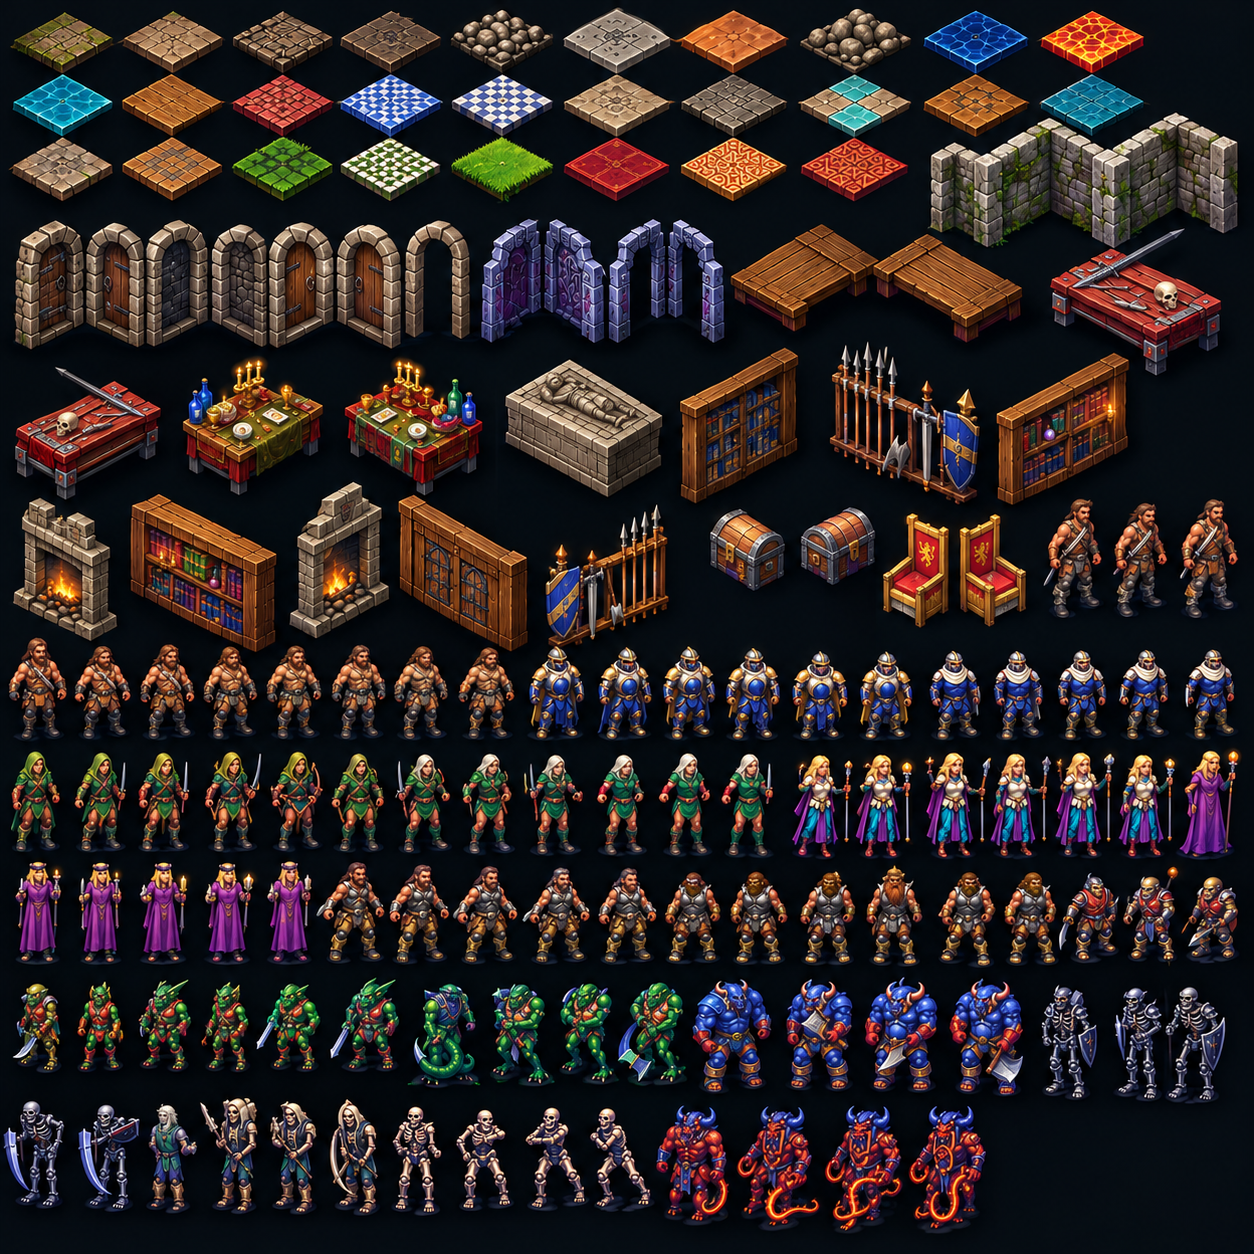
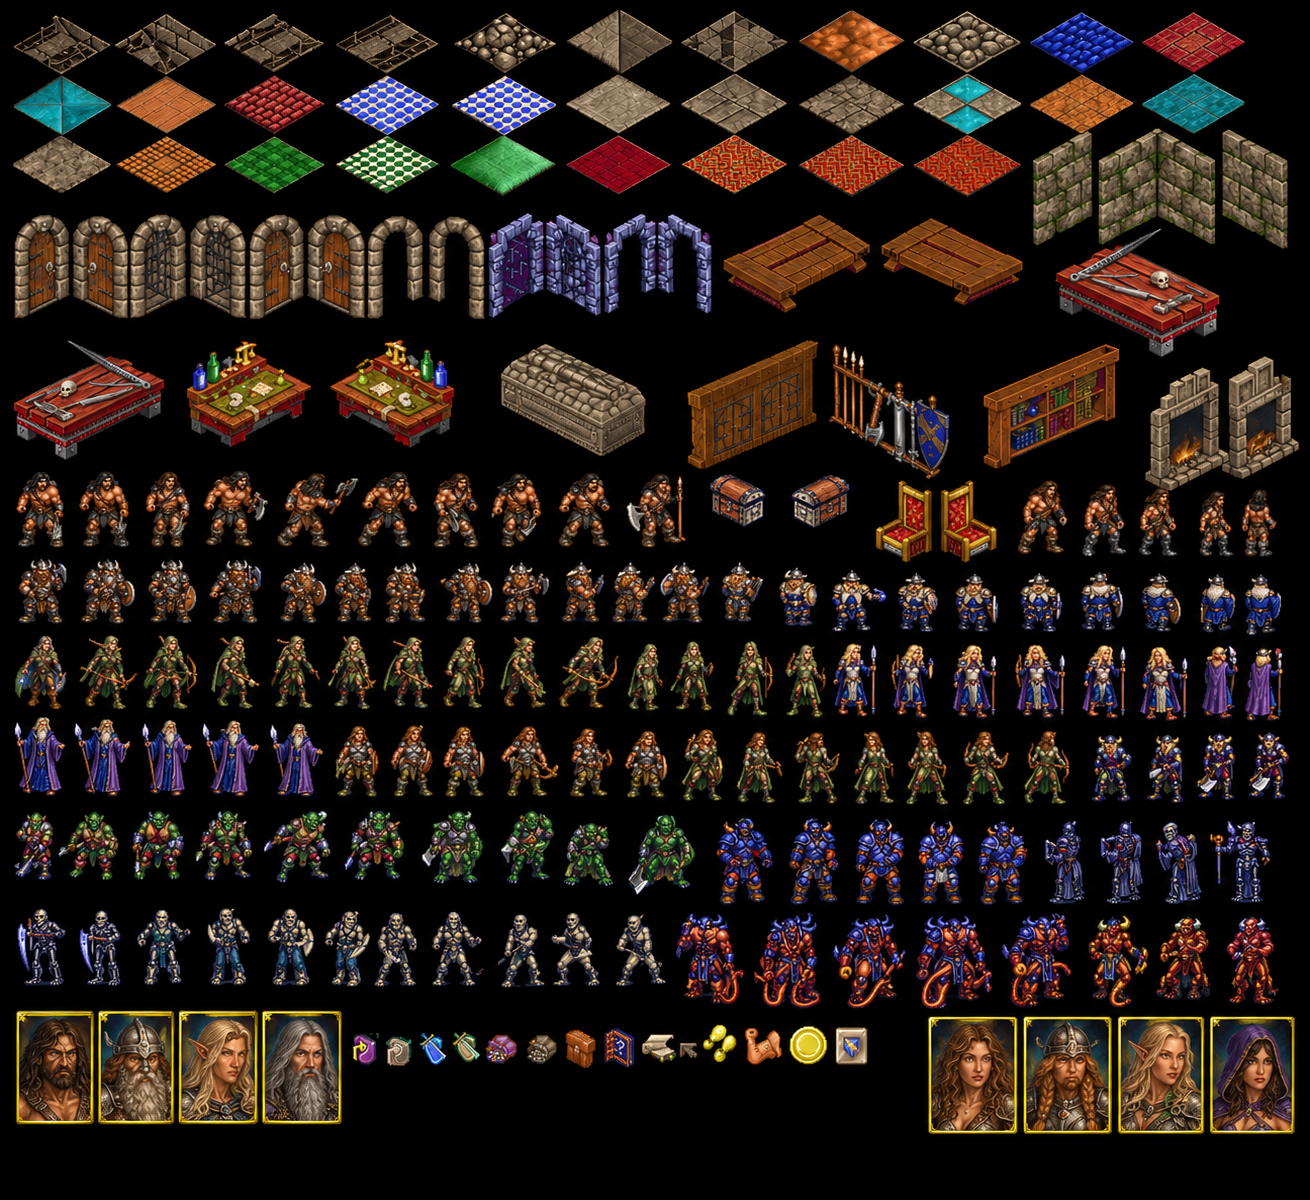
Refactor code structure for improved readability and maintainability

diff --git a/donjon-v2/public/assets/game/ModuleIso.js b/donjon-v2/public/assets/game/ModuleIso.js
@@ -85,7 +85,7 @@
 		Iso.Planche = new Image();
 		Iso.Planche.src = Chemin.replace('/images', '/iso/atlas.png');
 		Iso.Livre = new Image();
-		Iso.Livre.src = Chemin.replace('/images', '/iso/livre.png');
+		Iso.Livre.src = Chemin.replace('/images', '/iso/livre.jpg');
 		IsoPreparerObjets();
 		Iso.Canvas.addEventListener('click', IsoClic);
 		Iso.Canvas.addEventListener('mousemove', IsoSurvol);
@@ -96,9 +96,11 @@
 		window.requestAnimationFrame(IsoBoucle);
 	}
 
+	/* Largeur et Hauteur : taille logique du canvas. Finesse : pixels du canvas par pixel logique (la vue classique est
+	   deux fois plus fine pour afficher iso/livre.jpg, 1280 x 800, sans le reduire). */
 	var ISO_VUES = {
-		'3d': { Suivante: 'classique', Nom: 'Vue 3D', Largeur: 728, Hauteur: 460 },
-		'classique': { Suivante: 'dessus', Nom: 'Vue classique', Largeur: 640, Hauteur: 400 },
+		'3d': { Suivante: 'classique', Nom: 'Vue 3D', Largeur: 728, Hauteur: 460, Finesse: 1 },
+		'classique': { Suivante: 'dessus', Nom: 'Vue classique', Largeur: 640, Hauteur: 400, Finesse: 2 },
 		'dessus': { Suivante: '3d', Nom: 'Vue de dessus' }
 	};
 
@@ -108,15 +110,31 @@
 		Iso.Actif = Vue != 'dessus';
 		Iso.Camera = null;
 		if (Iso.Actif){
-			Iso.Canvas.width = Choix.Largeur;
-			Iso.Canvas.height = Choix.Hauteur;
+			Iso.Finesse = Choix.Finesse;
+			Iso.Canvas.width = Choix.Largeur * Choix.Finesse;
+			Iso.Canvas.height = Choix.Hauteur * Choix.Finesse;
 			Iso.Contexte.imageSmoothingQuality = 'high';	// l'atlas est a IsoEchelle fois la taille du plateau
 		}
 		Iso.Canvas.style.display = Iso.Actif ? '' : 'none';
+		document.querySelector('.quest-grille').classList.toggle('vue-classique', Vue == 'classique');
+		document.getElementById('fiche-heros').style.display = Vue == 'classique' ? '' : 'none';
+		IsoOuvrirFiche(false);
 		document.getElementById('board').style.display = Iso.Actif ? 'none' : '';
 		document.getElementById('board-vue').textContent = Choix.Nom + ' (changer : ' + ISO_VUES[Choix.Suivante].Nom.toLowerCase() + ')';
 		try { localStorage.setItem('donjon-vue', Vue); } catch (e) {}
 		AjusterPlateau();							// ModulePleinEcran.js : taille d'affichage de la nouvelle vue
+	}
+
+	/* Vue classique : la fiche du heros, cachee, s'ouvre par-dessus le plateau (game.css). */
+	function IsoOuvrirFiche(Ouverte){
+		document.querySelector('.quest-grille').classList.toggle('fiche-ouverte', Ouverte);
+		var Bouton = document.getElementById('fiche-heros');
+		Bouton.setAttribute('aria-expanded', Ouverte);
+		Bouton.textContent = Ouverte ? 'Cacher la fiche du héros' : 'Fiche du héros';
+	}
+
+	function IsoBasculerFiche(){
+		IsoOuvrirFiche(!document.querySelector('.quest-grille').classList.contains('fiche-ouverte'));
 	}
 
 	function IsoBasculerVue(){
@@ -234,8 +252,9 @@
 		var Heros = LesJoueurs[ConstIdJoueur];
 		Iso.Montrees = IsoZoneDuHeros(Number(Heros[5]));
 
-		Ctx.setTransform(2, 0, 0, 2, 0, 0);
-		Ctx.drawImage(Iso.Livre, 0, 0);
+		var Echelle = 2 * Iso.Finesse;					// ecran de 320 x 200
+		Ctx.setTransform(Echelle, 0, 0, Echelle, 0, 0);
+		Ctx.drawImage(Iso.Livre, 0, 0, 320, 200);
 
 		var Gauche = Infinity, Droite = -Infinity, Haut = Infinity, Bas = -Infinity;
 		for (var Case in Iso.Montrees){
@@ -246,9 +265,11 @@
 		Ctx.translate(Math.round(ISO_CENTRE_LIVRE.x - (Gauche + Droite) / 2), Math.round(ISO_CENTRE_LIVRE.y - (Haut + Bas) / 2));
 		IsoDessinerCases();
 
-		Ctx.setTransform(2, 0, 0, 2, 0, 0);
+		Ctx.setTransform(Echelle, 0, 0, Echelle, 0, 0);
 		IsoPanneau(Heros);
-		if (Iso.Combat && Date.now() - Iso.Combat.Debut < ISO_DUREE_COMBAT) { IsoGrosPlanCombat(Iso.Canvas.width, Iso.Canvas.height); }
+		if (Iso.Combat && Date.now() - Iso.Combat.Debut < ISO_DUREE_COMBAT){
+			IsoGrosPlanCombat(Iso.Canvas.width / Iso.Finesse, Iso.Canvas.height / Iso.Finesse);
+		}
 	}
 
 	/* Piece du heros, ou cases de son couloir a moins de ISO_RAYON_COULOIR cases (les couloirs forment une seule zone). */
@@ -345,7 +366,7 @@
 	function IsoGrosPlanCombat(Largeur, Hauteur){
 		var Ctx = Iso.Contexte, C = Iso.Combat, Z = ISO_ZOOM_COMBAT;
 		var Ecoule = Date.now() - C.Debut;
-		Ctx.setTransform(1, 0, 0, 1, 0, 0);
+		Ctx.setTransform(Iso.Finesse, 0, 0, Iso.Finesse, 0, 0);		// Largeur, Hauteur : taille logique du canvas
 		Ctx.fillStyle = 'rgba(0, 0, 0, 0.78)';
 		Ctx.fillRect(0, 0, Largeur, Hauteur);
 

diff --git a/donjon-v2/public/assets/game/ModulePiece.js b/donjon-v2/public/assets/game/ModulePiece.js
@@ -1,5 +1,6 @@
 
 	function GetIdPieceAffiche(Piece){						// DEVOILE LES CASES DE LA PIECE PASSEE EN PARAM
+		if (PieceEstCouloir(Piece)) { return; }			// couloir : seulement ce que le heros voit (DevoilerVueCouloir)
 		for (var i=0;i<MesPieces.length;i++){
 			if(Piece == MesPieces[i] )
 			{
@@ -17,6 +18,45 @@
 		var Ecart = Vers - De;
 		var Cote = Ecart == -26 ? 1 : Ecart == 1 ? 2 : Ecart == 26 ? 4 : Ecart == -1 ? 8 : 0;
 		return (MesMurs[De] & Cote) != 0;
+	}
+
+	/* Cartes HeroQuest (MesZones : 1 a 20 couloirs, 21 et plus pieces) : tous les couloirs forment une seule piece.
+	   Ils ne sont pas devoiles d'un coup : le heros voit en ligne droite depuis sa case. */
+	function EstCouloir(Case){
+		return typeof MesZones != 'undefined' && MesZones[Case] >= 1 && MesZones[Case] <= 20;
+	}
+
+	function PieceEstCouloir(Piece){
+		if (typeof MesZones == 'undefined') { return false; }
+		for (var i = 0; i < MesPieces.length; i++){
+			if (MesPieces[i] == Piece) { return EstCouloir(i); }
+		}
+		return false;
+	}
+
+	/* Depuis une case de couloir, devoile les 4 lignes droites jusqu'a un mur, une porte (la piece derriere reste
+	   cachee) ou un eboulis (devoile, mais il arrete la vue). Les monstres vus s'activent. */
+	function DevoilerVueCouloir(CaseHeros){
+		if (typeof MesMurs == 'undefined' || !EstCouloir(CaseHeros)) { return; }
+		CasesDevoilees[CaseHeros] = true;
+		var Directions = [[-26, 1], [1, 2], [26, 4], [-1, 8]];			// ecart, mur a franchir (MesMurs)
+		for (var d = 0; d < Directions.length; d++){
+			var Case = CaseHeros, Ecart = Directions[d][0], Mur = Directions[d][1];
+			while (!(MesMurs[Case] & Mur)){
+				var Suivante = Case + Ecart;
+				if (Suivante < 0 || Suivante >= MesPieces.length || !EstCouloir(Suivante)) { break; }
+				CacheCase(Suivante);
+				if (MesMurs[Suivante] & 16) { break; }
+				Case = Suivante;
+			}
+		}
+		ActiverMonstresVus();
+	}
+
+	function ActiverMonstresVus(){
+		for (var i = 0; i < LesMonstres.length; i++){
+			if (LesMonstres[i][8] == 0 && CasesDevoilees[LesMonstres[i][7]]) { LesMonstres[i][8] = 1; }
+		}
 	}
 
 	function GetMyIdPiece(id){

diff --git a/donjon-v2/public/assets/game/ModulePleinEcran.js b/donjon-v2/public/assets/game/ModulePleinEcran.js
@@ -1,7 +1,7 @@
 /*
  * Taille d'affichage du plateau (canvas des vues iso ou tableau #board de la vue de dessus).
- * Le plateau occupe toute la largeur de sa colonne. Quand la fiche du heros est a cote (grand ecran), il tient
- * en entier dans la hauteur de la fenetre ; quand elle est dessous, il en prend au plus 70 %.
+ * Le plateau occupe toute la largeur de sa colonne. Quand la fiche du heros est a cote (grand ecran) ou par-dessus
+ * (vue classique), il tient en entier dans la hauteur de la fenetre ; quand elle est dessous, il en prend au plus 70 %.
  * En plein ecran (toute la zone de jeu, cartes tresor et inventaire compris), il est agrandi au maximum
  * en laissant la fiche du heros visible.
  * La resolution interne du canvas ne change pas : seul l'affichage est mis a l'echelle.
@@ -30,6 +30,10 @@
 		return document.getElementById('CarteJoueurAventure').getBoundingClientRect().left >= Colonne.getBoundingClientRect().right;
 	}
 
+	function FicheParDessus(){						// vue classique : fiche cachee ou ouverte par-dessus le plateau
+		return document.querySelector('.quest-grille').classList.contains('vue-classique');
+	}
+
 	function AjusterPlateau(){
 		var Plateau = PlateauVisible(), Canvas = Plateau.tagName == 'CANVAS';
 		Plateau.style.width = Plateau.style.height = Plateau.style.zoom = '';	// mesures a la taille d'origine
@@ -37,7 +41,7 @@
 		var Hauteur = Canvas ? Plateau.height : Plateau.offsetHeight;
 		var Zone = ZoneDeJeu(), Colonne = Plateau.parentElement, Bordure = Plateau.offsetWidth - Plateau.clientWidth;
 		var HauteurDispo;
-		if (FicheACote(Colonne)){
+		if (FicheACote(Colonne) || FicheParDessus()){
 			// en plein ecran, sous le titre ; dans la page, le plateau doit tenir dans la fenetre
 			HauteurDispo = EstPleinEcran() ? window.innerHeight - Colonne.getBoundingClientRect().top : window.innerHeight;
 			HauteurDispo -= PLATEAU_MARGE;

diff --git a/donjon-v2/public/assets/game/game.css b/donjon-v2/public/assets/game/game.css
@@ -18,6 +18,31 @@
 	.quest-cote .plateau-outils { margin: 0 0 12px; }
 }
 
+/* Vue classique (ModuleIso.js) : le plateau prend toute la largeur, boutons au-dessus. La fiche du héros est cachée
+   et s'ouvre par-dessus le plateau, en haut à droite (même case de la grille). */
+.quest-grille.vue-classique { grid-template-columns: minmax(0, 1fr); position: relative; }
+.vue-classique .quest-cote { display: contents; }
+.vue-classique .quest-cote .plateau-outils { grid-row: 1; margin: 0; }
+.vue-classique .plateau-zone { grid-row: 2; grid-column: 1; }
+.vue-classique .quest-fiche { display: none; }
+.vue-classique.fiche-ouverte .quest-fiche {
+	display: block;
+	position: absolute;			/* dans la case du plateau : ne l'agrandit pas, défile si elle est plus haute */
+	grid-row: 2;
+	grid-column: 1;
+	top: 8px;
+	right: 8px;
+	z-index: 5;
+	box-sizing: border-box;
+	width: min(340px, calc(100% - 16px));
+	max-height: calc(100% - 16px);
+	overflow-y: auto;
+	padding: 8px;
+	border: 1px solid var(--or);
+	background: rgba(11, 10, 20, 0.92);
+	box-shadow: 0 8px 24px rgba(0, 0, 0, 0.7);
+}
+
 .Cache { display: none; }
 .Montre { display: block; }
 

diff --git a/donjon-v2/public/assets/game/ModuleIAMonstre.js b/donjon-v2/public/assets/game/ModuleIAMonstre.js
@@ -238,6 +238,7 @@ var IsTourMonstreTimer = false;
 	}
 	
 	function ActiveMontrePiece(piece){							//VOID	ACTIVE LES MONTRES DANS LEQUELLE UN JOUEUR ENTRE
+		if (PieceEstCouloir(piece)) { return; }				// couloir : seuls les monstres vus s'activent (DevoilerVueCouloir)
 		for (i=0;i<LesMonstres.length;i++){ 
 			if (LesMonstres[i][9]==GetMyIdPiece(piece) && LesMonstres[i][8]==0){
 				LesMonstres[i][8]=1; 

diff --git a/donjon-v2/public/assets/game/ModuleActionJeu.js b/donjon-v2/public/assets/game/ModuleActionJeu.js
@@ -90,6 +90,7 @@
 
 	function AfficheHeros(id){
 		LesJoueurs[ConstIdJoueur][5] = id;
+		DevoilerVueCouloir(Number(id));
 		MontreElement(id);
 		ImageCase(id).src=LesJoueurs[ConstIdJoueur][6];
 	}

diff --git a/donjon-v2/templates/pages/jeu.php b/donjon-v2/templates/pages/jeu.php
@@ -67,46 +67,50 @@ $dice = static fn (string $prefix): string => implode('', array_map(
         </div>
         <div class="quest-cote">
             <p class="plateau-outils"><button type="button" id="board-vue" style="display:none" onclick="IsoBasculerVue()">Vue de dessus</button>
-                <button type="button" id="plein-ecran" style="display:none" onclick="BasculerPleinEcran()">Plein écran</button></p>
-            <div id="CarteJoueurAventure" class="parchemin hero-board">
-                <div id="MenuJoueur">
-                    <div class="actions">
-                        <button type="button" class="ActionJeu" onclick="Lancerdee()" id="Mn_Deplacement">Lancer les dés</button>
-                        <button type="button" class="ActionJeu" onclick="LancerdeeAttaque()" id="Mn_Attaquer">Attaquer</button>
-                        <button type="button" class="ActionJeu" onclick="TirerUneCarteTresor()" id="Mn_Tresor">Chercher un trésor</button>
-                        <button type="button" class="ActionJeu" onclick="DeactiverLesPieges()" id="Mn_Piege">Chercher les pièges</button>
-                        <button type="button" class="ActionJeu" onclick="AfficherElement('myHeroItem')" id="Mn_Objet">Utiliser un objet</button>
-                        <button type="button" class="ActionJeu fin-tour" onclick="FinTour()" id="Mn_FinTour">Fin de tour</button>
+                <button type="button" id="plein-ecran" style="display:none" onclick="BasculerPleinEcran()">Plein écran</button>
+                <button type="button" id="fiche-heros" style="display:none" aria-expanded="false" aria-controls="quest-fiche" onclick="IsoBasculerFiche()">Fiche du héros</button></p>
+            <!-- En vue classique, la fiche est cachée (le livre montre déjà portrait, caractéristiques et actions) et s'ouvre par-dessus le plateau -->
+            <div class="quest-fiche" id="quest-fiche">
+                <div id="CarteJoueurAventure" class="parchemin hero-board">
+                    <div id="MenuJoueur">
+                        <div class="actions">
+                            <button type="button" class="ActionJeu" onclick="Lancerdee()" id="Mn_Deplacement">Lancer les dés</button>
+                            <button type="button" class="ActionJeu" onclick="LancerdeeAttaque()" id="Mn_Attaquer">Attaquer</button>
+                            <button type="button" class="ActionJeu" onclick="TirerUneCarteTresor()" id="Mn_Tresor">Chercher un trésor</button>
+                            <button type="button" class="ActionJeu" onclick="DeactiverLesPieges()" id="Mn_Piege">Chercher les pièges</button>
+                            <button type="button" class="ActionJeu" onclick="AfficherElement('myHeroItem')" id="Mn_Objet">Utiliser un objet</button>
+                            <button type="button" class="ActionJeu fin-tour" onclick="FinTour()" id="Mn_FinTour">Fin de tour</button>
+                        </div>
+                        <div class="hero-infos">
+                            <p class="hero-nom"><strong><?= e($hero['nom']) ?></strong> <?= e($hero['libellerace']) ?> · Niveau <?= (int) $hero['codeexp'] ?> · <span id="MyHeroOrs"><?= (int) $hero['ors'] ?></span> or</p>
+                            <p class="fiche-jauge hero-vie"><span>Vie</span> <span id="MyHeroPv"><?= (int) $hero['pv2'] ?></span> / <?= (int) $hero['pv'] ?>
+                                <?= progress_bar((int) $hero['pv2'], (int) $hero['pv'], 'vie', 'MyHeroBarrePv') ?></p>
+                            <p class="fiche-jauge hero-magie"><span>Magie</span> <?= (int) $hero['pm2'] ?> / <?= (int) $hero['pm'] ?>
+                                <?= progress_bar((int) $hero['pm2'], (int) $hero['pm'], 'magie') ?></p>
+                            <p class="hero-des">Déplacement <img src="<?= asset('game/images/dee/neutre.svg') ?>" id="Dee1" class="die" alt="Dé non lancé"> <img src="<?= asset('game/images/dee/neutre.svg') ?>" id="Dee2" class="die" alt="Dé non lancé"> <span id="DeplacementRestant" aria-live="polite"></span></p>
+                            <p class="hero-monstres">Monstres restants : <strong id="NbMonstre"></strong></p>
+                        </div>
                     </div>
-                    <div class="hero-infos">
-                        <p class="hero-nom"><strong><?= e($hero['nom']) ?></strong> <?= e($hero['libellerace']) ?> · Niveau <?= (int) $hero['codeexp'] ?> · <span id="MyHeroOrs"><?= (int) $hero['ors'] ?></span> or</p>
-                        <p class="fiche-jauge hero-vie"><span>Vie</span> <span id="MyHeroPv"><?= (int) $hero['pv2'] ?></span> / <?= (int) $hero['pv'] ?>
-                            <?= progress_bar((int) $hero['pv2'], (int) $hero['pv'], 'vie', 'MyHeroBarrePv') ?></p>
-                        <p class="fiche-jauge hero-magie"><span>Magie</span> <?= (int) $hero['pm2'] ?> / <?= (int) $hero['pm'] ?>
-                            <?= progress_bar((int) $hero['pm2'], (int) $hero['pm'], 'magie') ?></p>
-                        <p class="hero-des">Déplacement <img src="<?= asset('game/images/dee/neutre.svg') ?>" id="Dee1" class="die" alt="Dé non lancé"> <img src="<?= asset('game/images/dee/neutre.svg') ?>" id="Dee2" class="die" alt="Dé non lancé"> <span id="DeplacementRestant" aria-live="polite"></span></p>
-                        <p class="hero-monstres">Monstres restants : <strong id="NbMonstre"></strong></p>
-                    </div>
-                </div>
 
-                <div id="MenuCombat" style="display:none;">
-                    <table id="FenetreCombat">
-                        <tr>
-                            <td rowspan="2"><img id="Attaquant" style="display:none;" src="" alt=""></td>
-                            <td><span class="dice-label">Attaque</span><?= $dice('DA') ?></td>
-                            <td rowspan="2"><img id="Defenceur" style="display:none;" src="" alt=""></td>
-                        </tr>
-                        <tr>
-                            <td><span class="dice-label">Défense</span><?= $dice('DD') ?></td>
-                        </tr>
-                    </table>
-                    <p id="BilanCombat" class="center" aria-live="polite"></p>
-                    <span id="TourMonstre" style="display:none;"></span>
+                    <div id="MenuCombat" style="display:none;">
+                        <table id="FenetreCombat">
+                            <tr>
+                                <td rowspan="2"><img id="Attaquant" style="display:none;" src="" alt=""></td>
+                                <td><span class="dice-label">Attaque</span><?= $dice('DA') ?></td>
+                                <td rowspan="2"><img id="Defenceur" style="display:none;" src="" alt=""></td>
+                            </tr>
+                            <tr>
+                                <td><span class="dice-label">Défense</span><?= $dice('DD') ?></td>
+                            </tr>
+                        </table>
+                        <p id="BilanCombat" class="center" aria-live="polite"></p>
+                        <span id="TourMonstre" style="display:none;"></span>
+                    </div>
                 </div>
-            </div>
-            <p id="TourJoueur" class="center" aria-live="polite"></p>
-            <div class="center abandon">
-                <?= action_button('abandon-adventure', 'Abandonner l\'aventure', 'aventures') ?>
+                <p id="TourJoueur" class="center" aria-live="polite"></p>
+                <div class="center abandon">
+                    <?= action_button('abandon-adventure', 'Abandonner l\'aventure', 'aventures') ?>
+                </div>
             </div>
         </div>
     </div>

diff --git a/donjon-v2/README.md b/donjon-v2/README.md
@@ -76,7 +76,7 @@ python bin/import-heroquest.py "../_Version/HeroQuest (1991 Gremlin)"
 
 Le script réécrit les fichiers `.js` et `.jpg` et affiche pour chaque quête le nombre de pièces et de monstres. Il vérifie aussi que le héros peut atteindre tous les monstres. Les aventures correspondantes sont dans `database/seed.sql` (grades 1 à 4, réparties entre les trois villages). Pour les ajouter à une base existante, lancer `bin/reset-db.php`.
 
-Ce qui est repris : pièces, couloirs, murs, portes, éboulis, meubles (cases infranchissables), pièges (fosse, chute de pierre, lance : invisibles, un point de vie perdu), monstres, escalier et départ du héros. Ces cartes définissent `MesMurs`, que le moteur utilise pour bloquer les déplacements et les attaques à travers un mur ou un meuble. Sur ces cartes, les monstres actifs poursuivent le héros par le plus court chemin.
+Ce qui est repris : pièces, couloirs, murs, portes, éboulis, meubles (cases infranchissables), pièges (fosse, chute de pierre, lance : invisibles, un point de vie perdu), monstres, escalier et départ du héros. Ces cartes définissent `MesMurs`, que le moteur utilise pour bloquer les déplacements et les attaques à travers un mur ou un meuble. Sur ces cartes, les couloirs ne sont pas dévoilés d'un coup : le héros voit en ligne droite depuis sa case, jusqu'à un mur, une porte ou un éboulis. Un monstre ne s'active que quand le héros l'a vu (sa pièce dévoilée, ou sa case de couloir en vue) ; il poursuit ensuite le héros par le plus court chemin.
 
 Limites :
 

diff --git a/.claude/skills/atlas-iso/SKILL.md b/.claude/skills/atlas-iso/SKILL.md
@@ -126,7 +126,7 @@ Environ une minute. Le résultat est identique à chaque lancement.
 - **L'orientation.** Une paire de 1991 (`meuble4f` / `meuble50`…) est un miroir. Vérifier quel dessin de la planche correspond à chaque nom ; s'il n'y en a qu'un, `"miroir": true` donne l'autre.
 - **Les icônes grisées absentes.** `"gris": true` les fabrique à partir de l'icône en couleur.
 - **Le vert vif sur un personnage** (elfe, orc) est effacé avec le fond. Dans le prompt, demander des verts olive ou vert-de-gris.
-- **`bin/extract-heroquest-graphics.py` n'écrit que dans `iso/1991/`.** `iso/livre.png` (fond de la vue classique) est retouché à la main : ne pas l'écraser.
+- **`bin/extract-heroquest-graphics.py` n'écrit que dans `iso/1991/`.** `iso/livre.jpg` (fond de la vue classique, 1280 × 800) est recadré de `iso/t/livre.png` (zone 88, 32, 1400 × 875) : ne pas l'écraser.
 - **Nouveau personnage dans le code.** Ajouter ses images, puis l'utiliser dans `ModuleIso.js` (`ISO_MONSTRES`, `IsoNomHeros`). `IsoNomHeros` retombe sur `barbare-h` si un héros n'a pas d'image de repos.
 
 ## Contrôle des noms
